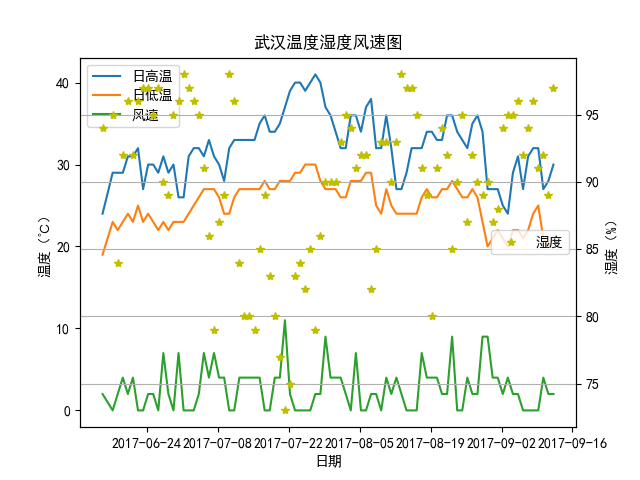
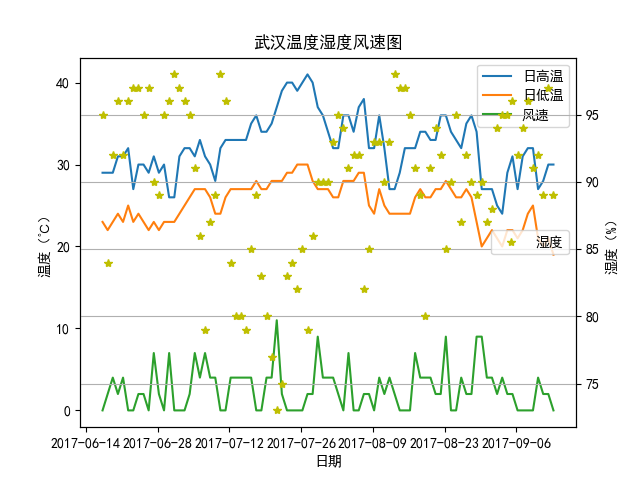
note中增加多个resource；做双纵轴图；格式化纵轴坐标表示方式

diff --git a/everwork.py b/everwork.py
@@ -23,6 +23,7 @@ import evernote.edam.notestore.NoteStore as NoteStore
 from bs4 import BeautifulSoup
 from evernote.api.client import EvernoteClient
 from pylab import *
+from matplotlib.ticker import MultipleLocator, FuncFormatter
 
 mpl.rcParams['font.sans-serif'] = ['SimHei']
 mpl.rcParams['axes.unicode_minus'] = False
@@ -165,6 +166,10 @@ def printnoteattributeundertoken( note):
     # print '范围\t', note.limits  #这种权限的调用没有返回这个值，报错
 
 
+def min_formatter(x, pos):
+    return r"%02d:%02d" %(int(x/60), int(x%60))
+
+
 #列出笔记本中的笔记信息
 def printnotefromnotebook( notebookguid, notecount):
     notefilter = NoteStore.NoteFilter()
@@ -184,7 +189,7 @@ def printnotefromnotebook( notebookguid, notecount):
         # print "\t\t\t\t", note.title, "\t", note.guid, "\t", note.contentLength, "\t", note.created, "\t", note.updated
         # print "\t\t\t\t", note.title, "\t", note.guid, "\t", note.contentLength, "\t", timestamp2str(int(note.created/1000)), "\t", timestamp2str(int(note.updated/1000))
         # print note.title.find('天气')
-        if note.title.find('天气') > 0:
+        if note.title.find('武汉每日天气') >= 0:
             soup = BeautifulSoup(note_store.getNoteContent(note.guid), "html.parser")
             # tags = soup.find('en-note')
             # print tags
@@ -215,20 +220,22 @@ def printnotefromnotebook( notebookguid, notecount):
                 for jj in re.findall(itempattern, ii):
                     stritem = [pd.Timestamp(jj[0]),
                                int(jj[1]), int(jj[2]), int(jj[3]), jj[4],
-                               pd.Timestamp(jj[5]).strftime("%I%M"),
-                               pd.Timestamp(jj[6]),
+                               # pd.Timestamp(jj[5]).strftime("%I%M"),
+                               int(pd.Timestamp(jj[5]).strftime("%H"))*60+int(pd.Timestamp(jj[5]).strftime("%M")),
+                               # pd.Timestamp(jj[6]),
+                               int(pd.Timestamp(jj[6]).strftime("%H"))*60+int(pd.Timestamp(jj[6]).strftime("%M")),
                                int(jj[7])]
                 # print stritem
                 data_list.append(stritem)
 
             # print type(data_list[0][0]), type(data_list[0][5]), type(data_list[0][6])
             #
-            # print len(data_list)
-            # print data_list[0]
+            print len(data_list)
+            print data_list[0]
             # # print data_list
             # print type(data_list)
 
-            df = pd.DataFrame(data_list[-90:-1],
+            df = pd.DataFrame(data_list,
                               columns=['date', 'gaowen', 'diwen', 'fengsu', 'fengxiang', 'sunon', 'sunoff', 'shidu'])
 
             # print df.head()
@@ -261,6 +268,7 @@ def printnotefromnotebook( notebookguid, notecount):
             plt.plot(df['date'], df['gaowen'], lw=1.5, label= u'日高温')
             plt.plot(df['date'], df['diwen'], lw=1.5, label= u'日低温')
             plt.plot(df['date'], df['fengsu'], lw=1.5, label= u'风速')
+            # plt.plot(df['date'], df['sunon'], lw=1.5, label= u'日出')
 
             plt.xlabel(u'日期')
             plt.ylabel(u'温度（℃）')
@@ -282,7 +290,37 @@ def printnotefromnotebook( notebookguid, notecount):
 
             # plt.show()
 
-            plt.savefig('sample.png')
+            plt.savefig('wenshifeng.png')
+            plt.close()
+
+            fig, ax1 = plt.subplots()
+            plt.plot(df['date'], df['sunon'], lw=1.5, label= u'日出')
+
+            ax = plt.gca()
+            # 主刻度文本用pi_formatter函数计算
+            ax.yaxis.set_major_formatter(FuncFormatter(min_formatter))
+
+            plt.xlabel(u'日期')
+            plt.ylabel(u'日出（时分）')
+            # plt.axis('tight')
+            plt.legend(loc = 2)
+
+            ax2 = ax1.twinx()
+            plt.plot(df['date'], df['sunoff'], 'y*', lw=1.5, label=u'日落')
+
+            ax = plt.gca()
+            # 主刻度文本用pi_formatter函数计算
+            ax.yaxis.set_major_formatter(FuncFormatter(min_formatter))
+
+            plt.legend(loc = 3)
+            plt.ylabel(u'日落（时分）')
+
+            plt.title(u'武汉日出日落图')
+            plt.grid(True)
+
+            plt.savefig('sunonoff.png')
+
+            plt.close()
 
     print
 
@@ -309,38 +347,82 @@ note.notebookGuid = '31eee750-e240-438b-a1f5-03ce34c904b4'
 # for the attachment. At a minimum, the Resource contains the binary attachment
 # data, an MD5 hash of the binary data, and the attachment MIME type.
 # It can also include attributes such as filename and location.
-image = open('sample.png', 'rb').read()
+image = open('wenshifeng.png', 'rb').read()
 md5 = hashlib.md5()
 md5.update(image)
 hash = md5.digest()
+# print hash
 
 data = Types.Data()
 data.size = len(image)
 data.bodyHash = hash
 data.body = image
+# print data
 
-resource = Types.Resource()
-resource.mime = 'image/png'
-resource.data = data
-
-# Now, add the new Resource to the note's list of resources
-note.resources = [resource]
+resource_wenshifeng = Types.Resource()
+resource_wenshifeng.mime = 'image/png'
+resource_wenshifeng.data = data
+# print resource_wenshifeng
 
 # To display the Resource as part of the note's content, include an <en-media>
 # tag in the note's ENML content. The en-media tag identifies the corresponding
 # Resource using the MD5 hash.
-hash_hex = binascii.hexlify(hash)
+# hash_hex_wenshifeng = binascii.hexlify(hash)
+
+
+# print note.resources
+
+image = open('sunonoff.png', 'rb').read()
+md5 = hashlib.md5()
+md5.update(image)
+hash = md5.digest()
+# print hash
+
+data = Types.Data()
+data.size = len(image)
+data.bodyHash = hash
+data.body = image
+# print  data
+
+resource_sunonoff = Types.Resource()
+resource_sunonoff.mime = 'image/png'
+resource_sunonoff.data = data
+# print resource_sunonoff
+
+# To display the Resource as part of the note's content, include an <en-media>
+# tag in the note's ENML content. The en-media tag identifies the corresponding
+# Resource using the MD5 hash.
+hash_hex_sunonoff = binascii.hexlify(hash)
+
+
+# Now, add the new Resource to the note's list of resources
+note.resources =[resource_wenshifeng, resource_sunonoff]
+# note.resources.append(resource_wenshifeng)
+
+# print len(note.resources)
+# # print note.resources
+# print note.resources[0]
+# print note.resources[1]
+
 
 # The content of an Evernote note is represented using Evernote Markup Language
 # (ENML). The full ENML specification can be found in the Evernote API Overview
 # at http://dev.evernote.com/documentation/cloud/chapters/ENML.php
-note.content = '<?xml version="1.0" encoding="UTF-8"?>'
-note.content += '<!DOCTYPE en-note SYSTEM ' \
-    '"http://xml.evernote.com/pub/enml2.dtd">'
-note.content += '<en-note>武汉天气图<br/>'
-note.content += '<en-media type="image/png" hash="' + hash_hex + '"/>'
-note.content += '</en-note>'
+nBody = "<?xml version=\"1.0\" encoding=\"UTF-8\"?>"
+nBody += "<!DOCTYPE en-note SYSTEM \"http://xml.evernote.com/pub/enml2.dtd\">"
+nBody += "<en-note>"
+if note.resources:
+    ### Add Resource objects to note body
+    # nBody += "<br />" * 2
+    for resource in note.resources:
+        hexhash = binascii.hexlify(resource.data.bodyHash)
+        nBody += "<en-media type=\"%s\" hash=\"%s\" /><br />" % \
+                 (resource.mime, hexhash)
+nBody += "</en-note>"
 
+note.content = nBody
+
+# print note.content
 # Finally, send the new note to Evernote using the createNote method
 # The new Note object that is returned will contain server-generated
 # attributes such as the new note's unique GUID.
